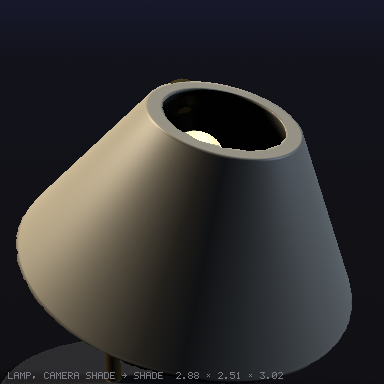
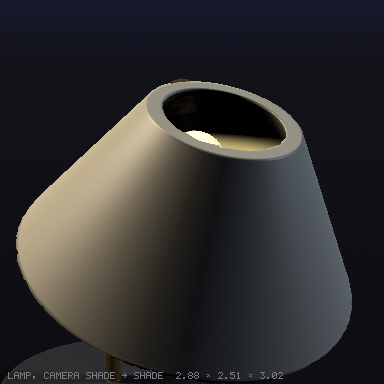
A point light: light(name, position=[x, y, z], range=)
The campsite's agent wanted its fire to light the stones round it and
found that a light is a direction and a glow lights only itself. A light
given a position is now at that place: from each shaded point it comes
from where it is, its strength halves at range and falls off as the
inverse square beyond, its shadow ray stops at the light rather than at
the edge of the world, and it does not reach the far floor. The
directional lights render as before; the default key light is untouched.

A point light inside a solid shadows everything, since every shadow ray
hits that solid first, so the docs say to put it in the air just outside
the glowing part, or inside a glass shade, which lets light through. The
lamp example's bulb has one just under it, and its base and the inside
of its shade are now lit by it, as read in the two beauty renders.

check and the report print a point light as "at (x, y, z), range r";
azimuth or elevation on one is warned as ignored, range without a
position is an error.

Claude-Session: https://claude.ai/code/session_01N4aZPpcvrkPPm1NLagjFQU

Changed region(s): [[0.5312, 0.3438, 0.75, 0.4062]]

diff --git a/src/render/beauty.ts b/src/render/beauty.ts
@@ -32,6 +32,9 @@ export interface BeautyLight {
   color: Vec3;
   /** 1 is the default key light's strength. */
   power: number;
+  /** A point light: its place; azimuth and elevation are unused. Its strength halves `range` away from it. */
+  position?: Vec3;
+  range?: number;
 }
 
 /** The procedural skies the metals reflect and the floor sits in. */
@@ -107,12 +110,20 @@ export function renderBeauty(shape: Shape3, mesh: Mesh, bounds: Bounds, opts: Be
   const pal = PALETTES[opts.environment ?? "studio"];
   const SKY = pal.sky, GROUND = pal.ground, FLOOR = pal.floor;
   // The lights: the program's, or the one key light the settings describe (its default direction kept as it was).
-  type Lit = { dir: Vec3; softness: number; color: Vec3; power: number };
+  type Lit = { dir: Vec3; softness: number; color: Vec3; power: number; pos?: Vec3; range: number };
+  const centre = boundsCenter(opts.reachBounds ?? bounds);
   const lights: Lit[] = (opts.lights && opts.lights.length
-    ? opts.lights.map((l) => ({ dir: lightDirection(l.azimuth, l.elevation), size: l.size, color: l.color, power: l.power }))
-    : [{ dir: opts.lightAzimuth === undefined && opts.lightElevation === undefined ? DEFAULT_LIGHT : lightDirection(opts.lightAzimuth ?? -40, opts.lightElevation ?? 55), size: opts.lightSize ?? 1, color: [1, 1, 1] as Vec3, power: 1 }]
-  ).map((l) => ({ dir: l.dir, softness: 6 / Math.max(0.1, l.size), color: l.color, power: Math.max(0, l.power) }));
+    ? opts.lights.map((l) => ({ dir: l.position ? normalize([l.position[0] - centre[0], l.position[1] - centre[1], l.position[2] - centre[2]]) : lightDirection(l.azimuth, l.elevation), size: l.size, color: l.color, power: l.power, pos: l.position, range: l.range ?? 2 }))
+    : [{ dir: opts.lightAzimuth === undefined && opts.lightElevation === undefined ? DEFAULT_LIGHT : lightDirection(opts.lightAzimuth ?? -40, opts.lightElevation ?? 55), size: opts.lightSize ?? 1, color: [1, 1, 1] as Vec3, power: 1, pos: undefined, range: 2 }]
+  ).map((l) => ({ dir: l.dir, softness: 6 / Math.max(0.1, l.size), color: l.color, power: Math.max(0, l.power), pos: l.pos, range: Math.max(1e-6, l.range) }));
   const totalPower = Math.max(1e-6, lights.reduce((s, l) => s + l.power, 0));
+  /** A light as seen from p: its direction there and its strength (a point light falls off with distance), and how far it is. */
+  const toward = (l: Lit, p: Vec3): { dir: Vec3; k: number; far: number } => {
+    if (!l.pos) return { dir: l.dir, k: 1, far: Infinity };
+    const dx = l.pos[0] - p[0], dy = l.pos[1] - p[1], dz = l.pos[2] - p[2];
+    const far = Math.hypot(dx, dy, dz) || 1e-9;
+    return { dir: [dx / far, dy / far, dz / far], k: (l.range * l.range) / (l.range * l.range + far * far), far };
+  };
   const ambient = Math.max(0, opts.ambient ?? 1) * pal.ambient;
   const cam: Camera = perspective(bounds, size, size, opts.azimuth ?? 35, opts.elevation ?? 25, 30, opts.zoom ?? 1, opts.fitPoints ?? mesh.positions);
   const cell = Math.max(opts.cellSize, 1e-4);
@@ -141,9 +152,9 @@ export function renderBeauty(shape: Shape3, mesh: Mesh, bounds: Bounds, opts: Be
     normalize([dist(x + eps, y, z) - dist(x - eps, y, z), dist(x, y + eps, z) - dist(x, y - eps, z), dist(x, y, z + eps) - dist(x, y, z - eps)]);
 
   /** 0 = fully shadowed, 1 = lit, towards one light; skipped when the ray cannot reach the model's box. */
-  const shadow = (p: Vec3, LIGHT: Vec3 = lights[0].dir, softness: number = lights[0].softness): number => {
-    // Ray-box test against the shadow box.
-    let tmin = 0, tmax = reach;
+  const shadow = (p: Vec3, LIGHT: Vec3 = lights[0].dir, softness: number = lights[0].softness, limit = Infinity): number => {
+    // Ray-box test against the shadow box; a point light's ray stops at the light.
+    let tmin = 0, tmax = Math.min(reach, limit);
     for (let a = 0; a < 3; a++) {
       const inv = 1 / LIGHT[a];
       let t0 = (shadowBox.min[a] - p[a]) * inv, t1 = (shadowBox.max[a] - p[a]) * inv;
@@ -190,8 +201,9 @@ export function renderBeauty(shape: Shape3, mesh: Mesh, bounds: Bounds, opts: Be
   const floorLight = (p: Vec3): Vec3 => {
     const out: Vec3 = [0.62 * pal.ambient, 0.62 * pal.ambient, 0.62 * pal.ambient];
     for (const l of lights) {
-      const sh = shadow(p, l.dir, l.softness);
-      const k = (0.38 * sh * Math.max(0, l.dir[1]) * l.power) / totalPower;
+      const at = toward(l, p);
+      const sh = shadow(p, at.dir, l.softness, at.far);
+      const k = (0.38 * sh * Math.max(0, at.dir[1]) * l.power * at.k) / totalPower;
       out[0] += k * l.color[0]; out[1] += k * l.color[1]; out[2] += k * l.color[2];
     }
     return out;
@@ -209,14 +221,15 @@ export function renderBeauty(shape: Shape3, mesh: Mesh, bounds: Bounds, opts: Be
     const diff: Vec3 = [0, 0, 0], spec: Vec3 = [0, 0, 0];
     const gloss = 1 - rough;
     for (const l of lights) {
-      const LIGHT = l.dir;
+      const at = toward(l, p);
+      const LIGHT = at.dir;
       const nl = Math.max(0, n[0] * LIGHT[0] + n[1] * LIGHT[1] + n[2] * LIGHT[2]);
-      const sh = nl > 0 ? shadow([p[0] + n[0] * cell, p[1] + n[1] * cell, p[2] + n[2] * cell], LIGHT, l.softness) : 1;
-      const d = nl * sh * 0.85 * (1 - metal * 0.6) * l.power;
+      const sh = nl > 0 ? shadow([p[0] + n[0] * cell, p[1] + n[1] * cell, p[2] + n[2] * cell], LIGHT, l.softness, at.far) : 1;
+      const d = nl * sh * 0.85 * (1 - metal * 0.6) * l.power * at.k;
       const hx = LIGHT[0] - view[0], hy = LIGHT[1] - view[1], hz = LIGHT[2] - view[2];
       const hl = Math.hypot(hx, hy, hz) || 1;
       const nh = Math.max(0, (n[0] * hx + n[1] * hy + n[2] * hz) / hl);
-      const s = Math.pow(nh, 4 + gloss * gloss * 160) * (0.05 + gloss * 0.7) * sh * (0.4 + nl) * l.power;
+      const s = Math.pow(nh, 4 + gloss * gloss * 160) * (0.05 + gloss * 0.7) * sh * (0.4 + nl) * l.power * at.k;
       diff[0] += d * l.color[0]; diff[1] += d * l.color[1]; diff[2] += d * l.color[2];
       spec[0] += s * l.color[0]; spec[1] += s * l.color[1]; spec[2] += s * l.color[2];
     }
@@ -395,7 +408,8 @@ export function renderBeauty(shape: Shape3, mesh: Mesh, bounds: Bounds, opts: Be
       // blended over the last third of the reach, since a hard switch drew a seam across a top-down shot (round 9).
       const away = boundsDistance(model, p[0], p[1], p[2]);
       const w = away >= reach ? 0 : away <= reach * 0.66 ? 1 : (reach - away) / (reach * 0.34);
-      const far: Vec3 = [0.62 * pal.ambient + 0.38 * lights.reduce((s, l) => s + (Math.max(0, l.dir[1]) * l.power * l.color[0]) / totalPower, 0), 0.62 * pal.ambient + 0.38 * lights.reduce((s, l) => s + (Math.max(0, l.dir[1]) * l.power * l.color[1]) / totalPower, 0), 0.62 * pal.ambient + 0.38 * lights.reduce((s, l) => s + (Math.max(0, l.dir[1]) * l.power * l.color[2]) / totalPower, 0)];
+      // A point light does not reach the far floor.
+      const far: Vec3 = [0.62 * pal.ambient + 0.38 * lights.reduce((s, l) => s + (l.pos ? 0 : (Math.max(0, l.dir[1]) * l.power * l.color[0]) / totalPower), 0), 0.62 * pal.ambient + 0.38 * lights.reduce((s, l) => s + (l.pos ? 0 : (Math.max(0, l.dir[1]) * l.power * l.color[1]) / totalPower), 0), 0.62 * pal.ambient + 0.38 * lights.reduce((s, l) => s + (l.pos ? 0 : (Math.max(0, l.dir[1]) * l.power * l.color[2]) / totalPower), 0)];
       const nearLit: Vec3 = w > 0 ? floorLight([p[0], p[1] + cell, p[2]]) : far;
       const nearAo = w > 0 ? occlusion(p, n) : 1;
       const lit: Vec3 = [far[0] + (nearLit[0] * nearAo - far[0]) * w, far[1] + (nearLit[1] * nearAo - far[1]) * w, far[2] + (nearLit[2] * nearAo - far[2]) * w];

diff --git a/src/lang/interpreter.ts b/src/lang/interpreter.ts
@@ -105,6 +105,10 @@ export interface Light {
   colorName: string;
   /** 1 is the default key light's strength. */
   power: number;
+  /** A point light: where it is; azimuth and elevation are then unused. */
+  position?: [number, number, number];
+  /** A point light's reach: its strength halves at this distance from it. */
+  range?: number;
   line: number;
 }
 
@@ -501,9 +505,9 @@ export function evaluate(program: Program, options: EvalOptions = {}): Evaluatio
   function callLight(args: Arg[], scope: Scope, line: number): Value {
     const values = args.map((a) => ({ name: a.name, value: evalExpr(a.value, scope) }));
     const nameArg = values.find((v) => !v.name);
-    if (!nameArg || typeof nameArg.value !== "string") throw new RuntimeError(`light(): light(name, azimuth=-40, elevation=55, size=1, color="white", power=1)`, line);
+    if (!nameArg || typeof nameArg.value !== "string") throw new RuntimeError(`light(): light(name, azimuth=-40, elevation=55, size=1, color="white", power=1), or light(name, position=[x, y, z], range=2, ...)`, line);
     const name = nameArg.value;
-    for (const v of values) if (v.name && !["azimuth", "elevation", "size", "color", "power"].includes(v.name)) throw new RuntimeError(`light("${name}"): no parameter named '${v.name}'; it takes azimuth, elevation, size, color and power`, line);
+    for (const v of values) if (v.name && !["azimuth", "elevation", "size", "color", "power", "position", "range"].includes(v.name)) throw new RuntimeError(`light("${name}"): no parameter named '${v.name}'; it takes azimuth, elevation, size, color and power, or position and range for a point light`, line);
     const num = (key: string, def: number): number => {
       const v = values.find((x) => x.name === key)?.value ?? def;
       if (typeof v !== "number") throw new RuntimeError(`light("${name}"): ${key} is a number`, line);
@@ -516,7 +520,17 @@ export function evaluate(program: Program, options: EvalOptions = {}): Evaluatio
     const colorV = values.find((x) => x.name === "color")?.value ?? "white";
     let color: [number, number, number], colorName: string;
     try { const m = toMaterial(colorV); color = [m.color[0], m.color[1], m.color[2]]; colorName = typeof colorV === "string" ? colorV : m.name; } catch (err) { throw new RuntimeError(`light("${name}"): color: ${(err as Error).message}`, line); }
-    const lightDef: Light = { name, azimuth, elevation, size, color, colorName, power, line };
+    // A point light: at a place, reaching `range`; a campfire's warmth on the stones round it (round 9 asked).
+    const posV = values.find((x) => x.name === "position")?.value;
+    let position: [number, number, number] | undefined, range: number | undefined;
+    if (posV !== undefined) {
+      if (!Array.isArray(posV) || posV.length !== 3 || !posV.every((v) => typeof v === "number")) throw new RuntimeError(`light("${name}"): position is [x, y, z]`, line);
+      position = [posV[0] as number, posV[1] as number, posV[2] as number];
+      range = num("range", 2);
+      if (range <= 0) throw new RuntimeError(`light("${name}"): range is the distance at which the light's strength halves, above 0`, line);
+      if (values.some((x) => x.name === "azimuth" || x.name === "elevation")) warnings.push(`light("${name}") (line ${line}): a point light is at its position; azimuth and elevation are ignored`);
+    } else if (values.some((x) => x.name === "range")) throw new RuntimeError(`light("${name}"): range goes with position=[x, y, z]; a light with no position is a direction`, line);
+    const lightDef: Light = { name, azimuth, elevation, size, color, colorName, power, position, range, line };
     const existing = lights.findIndex((l) => l.name === name);
     if (existing >= 0) lights[existing] = lightDef; else lights.push(lightDef);
     return name;

diff --git a/src/pipeline.ts b/src/pipeline.ts
@@ -1139,7 +1139,7 @@ export function run(source: string, sourceName: string, outDir: string, opts: Ru
       const ambient = typeof evaluation.settings.ambient === "number" ? evaluation.settings.ambient : undefined;
       const zoom = opts.zoom ?? shot?.zoom ?? (typeof evaluation.settings.zoom === "number" ? evaluation.settings.zoom : undefined);
       // The program's lights, when it declares any; else the one key light the settings describe.
-      const lights: BeautyLight[] | undefined = evaluation.lights.length ? evaluation.lights.map((l) => ({ name: l.name, azimuth: l.azimuth, elevation: l.elevation, size: l.size, color: l.color, power: l.power })) : undefined;
+      const lights: BeautyLight[] | undefined = evaluation.lights.length ? evaluation.lights.map((l) => ({ name: l.name, azimuth: l.azimuth, elevation: l.elevation, size: l.size, color: l.color, power: l.power, position: l.position, range: l.range })) : undefined;
       // Framed like the views: on the focused step when there is one.
       // Framed on the surface the mesh found, not the box a blend or a displace padded (measured: a tree's box was
       // 10% wider than its surface on every side, and the zoom could not reach past it).
@@ -1400,7 +1400,7 @@ export function roleLabel(role: StepRole | undefined): string {
 /** The Lights, Cameras and Environment lines of the report, printed by `check` too. */
 export function presentationLines(evaluation: Evaluation, shotName: string | undefined, environment: string | undefined, overridden = false): string[] {
   const lines: string[] = [];
-  if (evaluation.lights.length) lines.push(`Lights: ${evaluation.lights.map((l) => `${l.name} (azimuth ${fmt(l.azimuth)}, elevation ${fmt(l.elevation)}, size ${fmt(l.size)}, ${l.colorName}${l.power !== 1 ? `, power ${fmt(l.power)}` : ""})`).join("; ")}`);
+  if (evaluation.lights.length) lines.push(`Lights: ${evaluation.lights.map((l) => `${l.name} (${l.position ? `at (${l.position.map(fmt).join(", ")}), range ${fmt(l.range ?? 2)}` : `azimuth ${fmt(l.azimuth)}, elevation ${fmt(l.elevation)}`}, size ${fmt(l.size)}, ${l.colorName}${l.power !== 1 ? `, power ${fmt(l.power)}` : ""})`).join("; ")}`);
   if (evaluation.cameras.length) lines.push(`Cameras: ${evaluation.cameras.map((c) => `${c.name} (${[c.azimuth !== undefined ? `azimuth ${fmt(c.azimuth)}` : "", c.elevation !== undefined ? `elevation ${fmt(c.elevation)}` : "", c.zoom !== undefined ? `zoom ${fmt(c.zoom)}` : "", c.focus ? `on ${c.focus}` : "", c.dof !== undefined ? `dof ${fmt(c.dof)}` : ""].filter(Boolean).join(", ") || "the render's view"}) → beauty_${c.name}.png`).join("; ")}${shotName ? ` (the sheet and beauty.png use "${shotName}"${overridden ? ", its angles overridden from the command line" : ""})` : ""}`);
   if (environment) lines.push(`Environment: ${environment}`);
   return lines;

diff --git a/src/doc.ts b/src/doc.ts
@@ -78,9 +78,10 @@ export function referenceMarkdown(): string {
     "",
     "### light",
     "",
-    "A light in the beauty render: `light(\"key\", azimuth=-40, elevation=55, size=1.5, color=\"#fff2e0\")` and `light(\"rim\", azimuth=150, elevation=20, power=0.5, color=\"#cfe0ff\")`. Azimuth is degrees about y (0 from the front, +z; 90 from +x), elevation above the floor; `size` is the light's apparent size (0.5 a lamp with crisp shadows, 3 a window); `color` is a colour name, a hex or a material; `power` is its strength, 1 being the default key light's. Each light casts its own soft shadow, so three lights cost about half again the time of one (measured on the market scene: 4.1 s to 5.9 s at 512 px). The first `light()` replaces the default key light; declare as many as the picture needs. The report lists them.",
+    "A light in the beauty render: `light(\"key\", azimuth=-40, elevation=55, size=1.5, color=\"#fff2e0\")` and `light(\"rim\", azimuth=150, elevation=20, power=0.5, color=\"#cfe0ff\")`. Azimuth is degrees about y (0 from the front, +z; 90 from +x), elevation above the floor; `size` is the light's apparent size (0.5 a lamp with crisp shadows, 3 a window); `color` is a colour name, a hex or a material; `power` is its strength, 1 being the default key light's. Each light casts its own soft shadow, so three lights cost about half again the time of one (measured on the market scene: 4.1 s to 5.9 s at 512 px). The first `light()` replaces the default key light; declare as many as the picture needs. The report lists them. A point light is at a place instead of a direction: `light(\"fire\", position=[0, 0.4, 0], range=2, color=\"#ff9a3c\")` lights what is round it, its strength halving `range` away, shadowed by what stands between; put it in the air just outside the glowing part (inside a glass shade is fine, glass lets its light through dimmed), since inside a solid every shadow ray hits that solid.",
     "",
     "    light(name, azimuth=-40, elevation=55, size=1, color=\"white\", power=1) -> string",
+    "    light(name, position=[x, y, z], range=2, size=1, color=\"white\", power=1) -> string",
     "",
     "### camera",
     "",

diff --git a/tests/lang.test.ts b/tests/lang.test.ts
@@ -269,6 +269,13 @@ describe("interpreter", () => {
     expect(w).toContainEqual("set environment dusk: no such environment; the skies are studio, overcast, sunset, night (studio is the default)");
     expect(w).toContainEqual("set camera hero: no such camera; cameras: x; the render uses its own view");
     expect(w).toContainEqual('camera "x" (line 2): focus="nope" names no step or object; the shot frames the whole model');
+    // A point light: at a place, with a range; the parts it does not take are errors or a warning.
+    const point = run('light("fire", position=[0, 0.4, 0], range=1.5, color="#ff9a3c")\nlight("odd", position=[1, 1, 1], azimuth=30)');
+    expect(point.lights.map((l) => [l.name, l.position, l.range])).toEqual([["fire", [0, 0.4, 0], 1.5], ["odd", [1, 1, 1], 2]]);
+    expect(point.warnings).toContainEqual('light("odd") (line 2): a point light is at its position; azimuth and elevation are ignored');
+    expect(() => run('light("k", position=[1, 2])')).toThrow(/position is \[x, y, z\]/);
+    expect(() => run('light("k", range=2)')).toThrow(/range goes with position/);
+    expect(() => run('light("k", position=[0, 1, 0], range=0)')).toThrow(/range is the distance/);
     expect(() => run('light("k", size=0)')).toThrow(/size is the light's apparent size, above 0/);
     expect(() => run('light("k", colour="red")')).toThrow(/no parameter named 'colour'/);
     expect(() => run('light("k", color="nope")')).toThrow(/light\("k"\): color: "nope" is not a material preset or a colour/);

diff --git a/tests/render.test.ts b/tests/render.test.ts
@@ -249,6 +249,11 @@ describe("beauty lights and environments", () => {
     // One white light at the default direction, declared, matches the default key light's picture.
     const declared = renderBeauty(sphere, nets.mesh, sphere.bounds, { ...base, lights: [{ azimuth: -40, elevation: 55, size: 1, color: [1, 1, 1], power: 1 }] });
     expect(declared.get(48, 44)).not.toBe(plain.get(0, 95));
+    // A point light just right of the sphere lights its right side and not its left; farther away it does less.
+    const point = (x: number) => renderBeauty(sphere, nets.mesh, sphere.bounds, { ...base, lights: [{ azimuth: 0, elevation: 0, size: 1, color: [1, 1, 1], power: 1, position: [x, 0.2, 0.3], range: 1.5 }] });
+    const near = point(1.6), off = point(6);
+    expect(lum(near.get(70, 48))).toBeGreaterThan(lum(near.get(26, 48)) + 60);
+    expect(lum(near.get(70, 48))).toBeGreaterThan(lum(off.get(70, 48)) + 30);
     // A second light from the right lifts the sphere's right side.
     const two = renderBeauty(sphere, nets.mesh, sphere.bounds, { ...base, lights: [{ azimuth: -40, elevation: 55, size: 1, color: [1, 1, 1], power: 1 }, { azimuth: 120, elevation: 30, size: 1, color: [1, 1, 1], power: 1 }] });
     expect(lum(two.get(70, 48))).toBeGreaterThan(lum(declared.get(70, 48)));

diff --git a/.claude/skills/aixle/SKILL.md b/.claude/skills/aixle/SKILL.md
@@ -108,7 +108,7 @@ height(s, x, z)  top(s)  bottom(s)  width(s)  depth(s)  tall(s)  angle("elbow") 
 pieces(s)  overhang(s)  clearance(a, b)  void(region, s)  overlap(a, b)  inside(a, b)   a < b  a == b   # measure for assert
 set grid 200   set size 768   set focus lid   set pose reach   set azimuth 60             # settings (CLI flags override)
 set light_azimuth -40   set light_elevation 55   set ambient 1.5   material("#fc6", glow=1)  # beauty lighting
-light("key", azimuth=-40, elevation=55, size=1.5, color="#fff2e0")  light("rim", azimuth=150, elevation=20, power=0.5)   # several lights
+light("key", azimuth=-40, elevation=55, size=1.5, color="#fff2e0")  light("rim", azimuth=150, elevation=20, power=0.5)  light("fire", position=[0, 0.4, 0], range=2)   # several lights, a point light
 camera("hero", azimuth=30, elevation=20, zoom=1.4)  camera("detail", focus="part", zoom=2)  set camera hero  set environment sunset   # shots and a sky (--camera NAME, --environment NAME try one)
 decal(part, label_box, image="label.png")   material("cream", image="skin.png", projection="cylindrical", scale=0.6)   # a PNG as a label or a skin
 
@@ -188,7 +188,7 @@ show arm
 | a label or name must go round a cylinder | text is flat | `extrude(text(...), h, "z") \| wrap(r)` |
 | stripes run the wrong way | patterns stack along the material's `axis` (y) in the paint frame | `material(..., axis="x")`, or paint standing, then lay down |
 | gold or silver look dull on the sheet | the sheet has no environment to reflect | judge metals in `--beauty` (`--quick --beauty` is a few seconds, but it cannot judge glass: its grid is coarse) |
-| chrome is a white blob; a night scene is black; a low shot looks down | neutral skies reflect white; `night` cuts the ambient; elevation is about the centre | `sunset`/`night` or `steel` for a mirror; `set ambient 1.6`; `elevation=-8`; a light is a direction, a glow lights only itself |
+| chrome is a white blob; a night scene is black; a low shot looks down | neutral skies reflect white; `night` cuts the ambient; elevation is about the centre | `sunset`/`night` or `steel` for a mirror; `set ambient 1.6`; `elevation=-8`; a glow lights only itself, so a lamp or a fire lighting its neighbours is `light(..., position=[x, y, z], range=2)` just outside it |
 | a rig part swings about the wrong point | the pivot is not at the hinge | give `joint` the hinge's world point, after the part is in place |
 
 ## Style that renders well

diff --git a/docs/reference.md b/docs/reference.md
@@ -746,9 +746,10 @@ The beauty render's lighting and shots, declared in the program. Without a `ligh
 
 ### light
 
-A light in the beauty render: `light("key", azimuth=-40, elevation=55, size=1.5, color="#fff2e0")` and `light("rim", azimuth=150, elevation=20, power=0.5, color="#cfe0ff")`. Azimuth is degrees about y (0 from the front, +z; 90 from +x), elevation above the floor; `size` is the light's apparent size (0.5 a lamp with crisp shadows, 3 a window); `color` is a colour name, a hex or a material; `power` is its strength, 1 being the default key light's. Each light casts its own soft shadow, so three lights cost about half again the time of one (measured on the market scene: 4.1 s to 5.9 s at 512 px). The first `light()` replaces the default key light; declare as many as the picture needs. The report lists them.
+A light in the beauty render: `light("key", azimuth=-40, elevation=55, size=1.5, color="#fff2e0")` and `light("rim", azimuth=150, elevation=20, power=0.5, color="#cfe0ff")`. Azimuth is degrees about y (0 from the front, +z; 90 from +x), elevation above the floor; `size` is the light's apparent size (0.5 a lamp with crisp shadows, 3 a window); `color` is a colour name, a hex or a material; `power` is its strength, 1 being the default key light's. Each light casts its own soft shadow, so three lights cost about half again the time of one (measured on the market scene: 4.1 s to 5.9 s at 512 px). The first `light()` replaces the default key light; declare as many as the picture needs. The report lists them. A point light is at a place instead of a direction: `light("fire", position=[0, 0.4, 0], range=2, color="#ff9a3c")` lights what is round it, its strength halving `range` away, shadowed by what stands between; put it in the air just outside the glowing part (inside a glass shade is fine, glass lets its light through dimmed), since inside a solid every shadow ray hits that solid.
 
     light(name, azimuth=-40, elevation=55, size=1, color="white", power=1) -> string
+    light(name, position=[x, y, z], range=2, size=1, color="white", power=1) -> string
 
 ### camera
 

diff --git a/docs/agent-guide.md b/docs/agent-guide.md
@@ -131,7 +131,7 @@ npx aixle diff before.aix after.aix        the two sheets side by side
 | the beauty render leaves the model small in the frame | the camera fits the box's corners, so a diagonal model has empty corners | `set zoom 1.2` or `--zoom 1.2` (it stops where the box would touch the edge) |
 | the beauty render is flat, or one side is black | one key light from the upper left | `light("key", ...)` and `light("rim", azimuth=150, elevation=20, power=0.5)`; `set environment sunset` or `night` for a mood; `camera("detail", focus="part", zoom=1.5)` for a second shot; `--camera NAME` and `--environment NAME` to try one shot or one sky without editing |
 | a night scene is black but for the flame | `night` scales the ambient down to 0.4 | `set ambient 1.6` and a moon at `power=0.9`; a glow lights itself only, never its neighbours |
-| a low shot still looks down on the base; a fire cannot be a light | elevation is about the model's centre; a light is a direction | `camera(..., elevation=-8)`; a warm light from above and in front (`azimuth=20, elevation=35`) |
+| a low shot still looks down on the base; a fire does not light its neighbours | elevation is about the model's centre; a glow lights only itself | `camera(..., elevation=-8)`; a point light in the air just outside the flame, `light("fire", position=[0, 0.4, 0], range=2, color="#ff9a3c")` |
 | chrome or silver is a white blob | `studio` and `overcast` are white skies, and a mirror reflects them | `sunset` or `night` for a mirror metal, or `steel`, `iron`, `brass` |
 | glass reads frosted and opaque in `--quick --beauty` | the quick grid is 64 cells and the wall is under a cell | judge glass at the full grid; keep a glowing part a cell clear of its glass |
 | contour lines behind glass | a `loft` or a smooth union is a bound, not a distance; or two faces coincide | a rounded box or an exact primitive under `transmit`; grow a liquid a cell into its cavity and promise `inside(liquid, cavity) > 0.9` |

diff --git a/dogfood/README.md b/dogfood/README.md
@@ -179,10 +179,10 @@ ambient was raised; a low light meant "from the horizon"; chrome was
 white under a white sky; glass could not be judged in a quick pass;
 glass on a loft banded; a focus shot's marcher stopped at the frame so a
 through hole read as blind. Their reports' three changes each are
-answered below. Not done: a point light, a per-light contribution
-picture, an occlusion warning for a focus shot, environment thumbnails
-in the reference, a posed line for a joint step itself, and loop
-variables kept out of the step list.
+answered below. Not done: a per-light contribution picture, an
+occlusion warning for a focus shot, environment thumbnails in the
+reference, a posed line for a joint step itself, and loop variables
+kept out of the step list.
 
 ## What each round changed
 
@@ -381,8 +381,11 @@ zoom's frame cap, dof's scale, the command line overriding only the
 render's own view, speckle's blocks and a skin that hugs a curved body;
 then `check` warns when glass sits on a loft, a smooth boolean, a warp
 or a non-uniform scale (a `bound` flag on those fields), `arc(axis=)`
-stands an arc in yz or xy, and `examples/patterns.aix` is a plate of the
-ten patterns at two scales.
+stands an arc in yz or xy, `examples/patterns.aix` is a plate of the
+ten patterns at two scales, and `light(name, position=[x, y, z],
+range=)` is a point light, shadowed by what stands between and falling
+off with distance, so a lamp or a fire lights its neighbours (the lamp
+example's bulb now lights its base and the inside of its shade).
 
 ## Running a round
 

diff --git a/docs/language.md b/docs/language.md
@@ -564,12 +564,17 @@ environment, so a misspelt name is a warning before any render.
 
 What the lights and the skies can and cannot do, measured in round 9:
 
-- A light is a direction, not a place. `elevation=8` means "from the
-  horizon", whatever stands there; a campfire's warmth on the things
-  round it is best faked with a warm light from above and in front
-  (`azimuth=20, elevation=35`), and a low light throws a long shadow
-  across a top-down shot. A `glow` material lights itself only: a flame
-  does not light the stones round it or the ground under it.
+- A light with an azimuth is a direction, not a place: `elevation=8`
+  means "from the horizon", whatever stands there, and a low light
+  throws a long shadow across a top-down shot. A campfire's warmth on
+  the stones round it is a point light, `light("fire", position=[0,
+  0.4, 0], range=2, color="#ff9a3c", power=1.5)`: at a place, its
+  strength halving `range` away, shadowed by what stands between, and
+  not reaching the far floor. Put it in the air just outside the glowing
+  part (a solid the light sits inside shadows everything; inside a glass
+  shade is fine, since glass lets its light through dimmed). A `glow`
+  material lights itself only: a flame does not light the stones round
+  it or the ground under it unless a point light sits in it.
 - `night` scales the ambient light to 0.4 of the studio's, so a first
   render is dark: start from `set ambient 1.6` with a moon of
   `power=0.9`, and let a glow carry the picture. `sunset` is a warm

diff --git a/docs/roadmap.md b/docs/roadmap.md
@@ -206,9 +206,8 @@ It is a printer over the dependencies the evaluation records. Not built:
 - An APNG turntable, since the PNG writer is there.
 - A `--stl`-style `--3mf` for slicers that want units and colours.
 - Mesh decimation for web exports.
-- A point light (`light(..., position=[x, y, z])`) for a campfire or a
-  lamp lighting its neighbours, and a per-light strip so a rim light's
-  contribution can be seen (round 9 asked for both).
+- A per-light strip so a rim light's contribution can be seen (round 9
+  asked; a point light, its other ask, is built).
 - A note when a camera's focus is mostly hidden by another step, and a
   thumbnail per environment in the reference (round 9); a `posed` line
   for a joint step itself.
